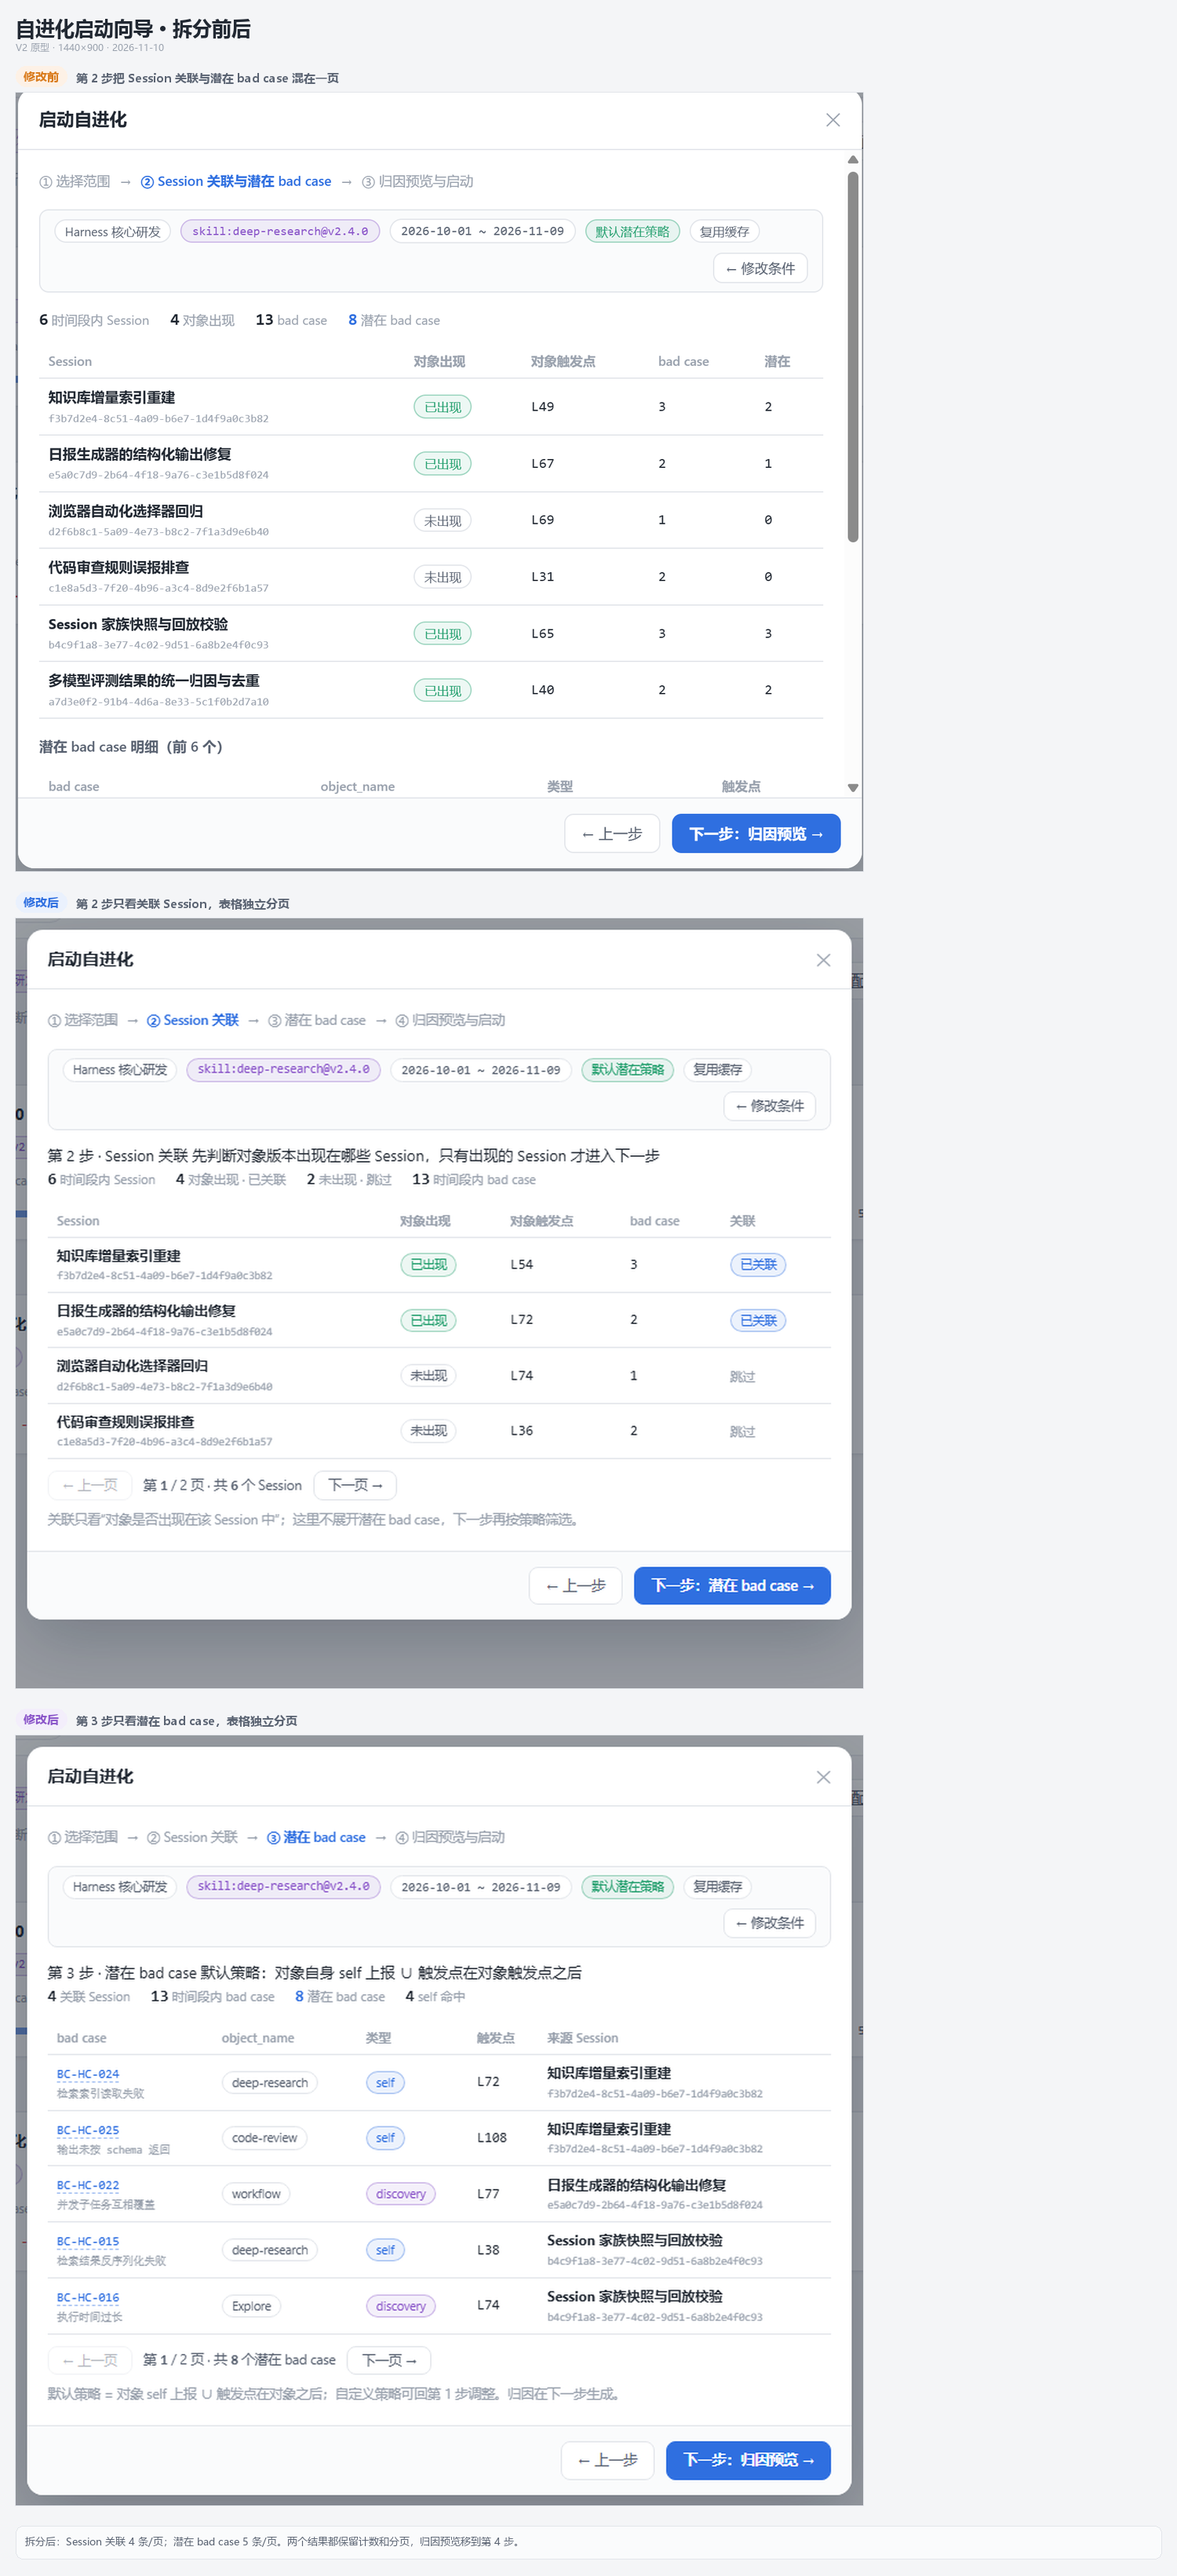
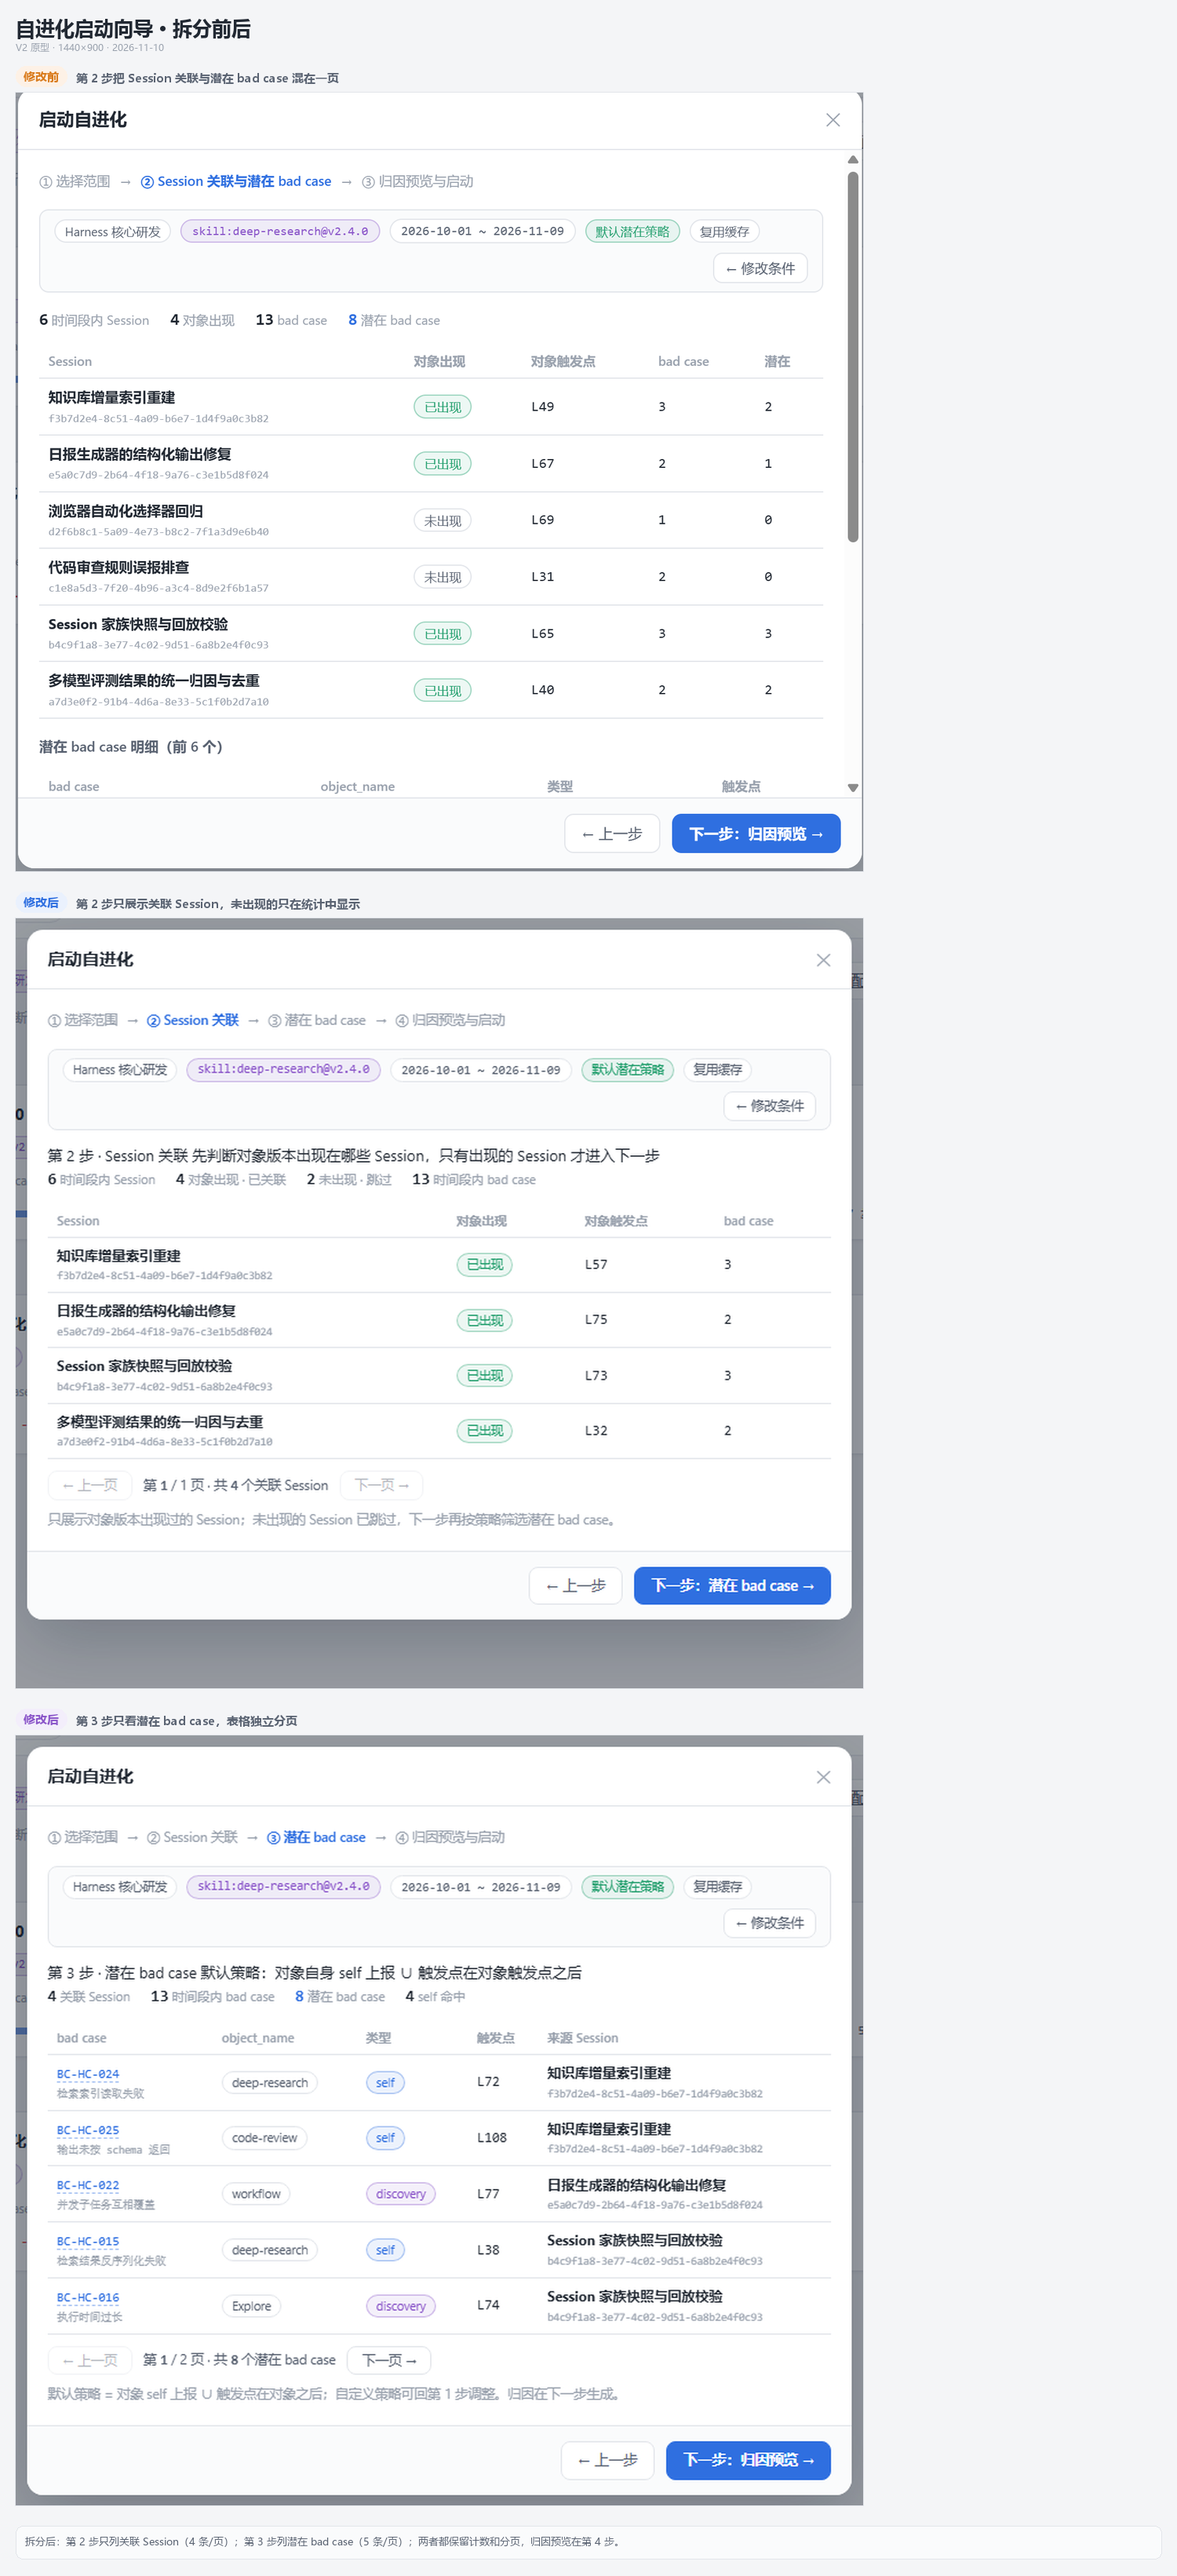
feat(prototype): show only associated sessions in step two

diff --git a/plans/ui-prototype-v2/harness-evolution.html b/plans/ui-prototype-v2/harness-evolution.html
@@ -3602,23 +3602,25 @@ function evStepScope(run) {
 
 function evStepAssoc(run) {
   const m = run.model;
+  const assoc = m.sessions.filter(a => a.appeared);
+  const skipped = m.sessions.length - assoc.length;
   const pageSize = 4;
-  const pages = Math.max(1, Math.ceil(m.sessions.length / pageSize));
+  const pages = Math.max(1, Math.ceil(assoc.length / pageSize));
   const page = Math.min(Math.max(1, run.assocPage || 1), pages);
   run.assocPage = page;
-  const slice = m.sessions.slice((page - 1) * pageSize, page * pageSize);
+  const slice = assoc.slice((page - 1) * pageSize, page * pageSize);
   const rows = slice.map(a => `<tr>
     <td><b>${evEsc(a.sess.short)}</b><span class="cell-sub mono">${a.sid}</span></td>
-    <td>${a.appeared ? '<span class="v2-badge ok">已出现</span>' : '<span class="v2-badge">未出现</span>'}</td>
+    <td><span class="v2-badge ok">已出现</span></td>
     <td class="mono">L${a.line}</td>
     <td class="mono">${a.cases.length}</td>
     <td class="mono">${a.potential.length}</td>
-    <td>${a.appeared ? '<span class="v2-badge self">已关联</span>' : '<span class="v2-note">跳过</span>'}</td>
   </tr>`).join('');
   return `<div class="card panel">
-    <div class="sec-title">第 2 步 · Session 关联 <span class="sub">对象版本出现过的 Session 才进入下一步</span></div>
-    <table class="rep"><thead><tr><th>Session</th><th>对象出现</th><th>对象触发点</th><th>bad case</th><th>潜在 bad case</th><th>关联</th></tr></thead><tbody>${rows || '<tr><td colspan="6" class="waiting">时间段内没有上报 bad case 的 Session</td></tr>'}</tbody></table>
-    <div class="pager"><button class="btn" data-action="ev-run-page" data-target="assoc" data-id="${run.id}" data-delta="-1" ${page <= 1 ? 'disabled' : ''}>← 上一页</button><span class="pager-info">第 <b>${page}</b> / ${pages} 页 · 共 <b>${m.sessions.length}</b> 个 Session</span><button class="btn" data-action="ev-run-page" data-target="assoc" data-id="${run.id}" data-delta="1" ${page >= pages ? 'disabled' : ''}>下一页 →</button></div>
+    <div class="sec-title">第 2 步 · Session 关联 <span class="sub">只展示对象版本出现过的 Session；未出现的 Session 已跳过</span></div>
+    <div class="f-inline" style="margin-bottom:8px"><span class="v2-badge ok">关联 ${assoc.length}</span><span class="v2-note">时间段内共 ${m.sessions.length} 个 Session；未出现 ${skipped} 个已跳过</span></div>
+    <table class="rep"><thead><tr><th>Session</th><th>对象出现</th><th>对象触发点</th><th>bad case</th><th>潜在 bad case</th></tr></thead><tbody>${rows || '<tr><td colspan="5" class="waiting">没有对象版本出现过的 Session；可回第 1 步调整时间段或对象版本</td></tr>'}</tbody></table>
+    <div class="pager"><button class="btn" data-action="ev-run-page" data-target="assoc" data-id="${run.id}" data-delta="-1" ${page <= 1 ? 'disabled' : ''}>← 上一页</button><span class="pager-info">第 <b>${page}</b> / ${pages} 页 · 共 <b>${assoc.length}</b> 个关联 Session</span><button class="btn" data-action="ev-run-page" data-target="assoc" data-id="${run.id}" data-delta="1" ${page >= pages ? 'disabled' : ''}>下一页 →</button></div>
   </div>`;
 }
 
@@ -3992,12 +3994,13 @@ function evRenderWizard() {
       </div>
       ${wz.focusCase ? `<div class="wz-demo"><b>从 bad case 启动</b> · ${evEsc(wz.focusCase)} 已锁定为关注对象；启动后可在归因列表中找到它。</div>` : ''}`;
   } else if (wz.step === 2) {
+    const assoc = m.sessions.filter(a => a.appeared);
     const pageSize = 4;
-    const pages = Math.max(1, Math.ceil(m.sessions.length / pageSize));
+    const pages = Math.max(1, Math.ceil(assoc.length / pageSize));
     const page = Math.min(Math.max(1, wz.assocPage || 1), pages);
     wz.assocPage = page;
-    const slice = m.sessions.slice((page - 1) * pageSize, page * pageSize);
-    const rows = slice.map(a => `<tr><td><b>${evEsc(a.sess.short)}</b><span class="cell-sub mono">${a.sid}</span></td><td>${a.appeared ? '<span class="v2-badge ok">已出现</span>' : '<span class="v2-badge">未出现</span>'}</td><td class="mono">L${a.line}</td><td class="mono">${a.cases.length}</td><td>${a.appeared ? '<span class="v2-badge self">已关联</span>' : '<span class="v2-note">跳过</span>'}</td></tr>`).join('');
+    const slice = assoc.slice((page - 1) * pageSize, page * pageSize);
+    const rows = slice.map(a => `<tr><td><b>${evEsc(a.sess.short)}</b><span class="cell-sub mono">${a.sid}</span></td><td><span class="v2-badge ok">已出现</span></td><td class="mono">L${a.line}</td><td class="mono">${a.cases.length}</td></tr>`).join('');
     body = `${cond}
       <div class="wz-section-title">第 2 步 · Session 关联 <span>先判断对象版本出现在哪些 Session，只有出现的 Session 才进入下一步</span></div>
       <div class="wz-stats">
@@ -4006,13 +4009,13 @@ function evRenderWizard() {
         <span class="st"><b>${m.sessions.filter(a => !a.appeared).length}</b><span>未出现 · 跳过</span></span>
         <span class="st"><b>${m.cases.length}</b><span>时间段内 bad case</span></span>
       </div>
-      <table class="rep"><thead><tr><th>Session</th><th>对象出现</th><th>对象触发点</th><th>bad case</th><th>关联</th></tr></thead><tbody>${rows || '<tr><td colspan="5" class="waiting">时间段内没有上报 bad case 的 Session</td></tr>'}</tbody></table>
+      <table class="rep"><thead><tr><th>Session</th><th>对象出现</th><th>对象触发点</th><th>bad case</th></tr></thead><tbody>${rows || '<tr><td colspan="4" class="waiting">没有对象版本出现过的 Session</td></tr>'}</tbody></table>
       <div class="pager">
         <button class="btn" data-action="ev-wz-page" data-target="assoc" data-delta="-1" ${page <= 1 ? 'disabled' : ''}>← 上一页</button>
-        <span class="pager-info">第 <b>${page}</b> / ${pages} 页 · 共 <b>${m.sessions.length}</b> 个 Session</span>
+        <span class="pager-info">第 <b>${page}</b> / ${pages} 页 · 共 <b>${assoc.length}</b> 个关联 Session</span>
         <button class="btn" data-action="ev-wz-page" data-target="assoc" data-delta="1" ${page >= pages ? 'disabled' : ''}>下一页 →</button>
       </div>
-      <div class="wz-note">关联只看“对象是否出现在该 Session 中”；这里不展开潜在 bad case，下一步再按策略筛选。</div>`;
+      <div class="wz-note">只展示对象版本出现过的 Session；未出现的 Session 已跳过，下一步再按策略筛选潜在 bad case。</div>`;
   } else if (wz.step === 3) {
     const pageSize = 5;
     const pages = Math.max(1, Math.ceil(m.potentialRows.length / pageSize));

diff --git a/plans/ui-prototype-v2/v1-v2-report.html b/plans/ui-prototype-v2/v1-v2-report.html
@@ -265,7 +265,7 @@
       <div class="shot">
         <div class="bar"><b>V2 · 向导第 2 步</b><span class="tag">Session 关联 · 分页</span></div>
         <a href="screenshots-v2/v2-wizard-step2.png" target="_blank"><img src="screenshots-v2/v2-wizard-step2.png" alt="V2 向导第 2 步"></a>
-        <div class="cap">V2：先看关联 Session 数量与“对象出现/未出现”结果；表格分页（4 个/页），下一步才进入潜在 bad case。</div>
+        <div class="cap">V2：先看关联 Session 数量；表格只展示对象出现过的 Session（4 个/页），未出现的只在统计里显示为跳过，下一步才进入潜在 bad case。</div>
       </div>
     </div>
     <div class="compare" style="margin-top:12px">
